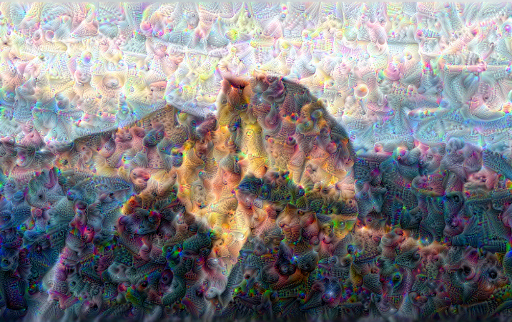
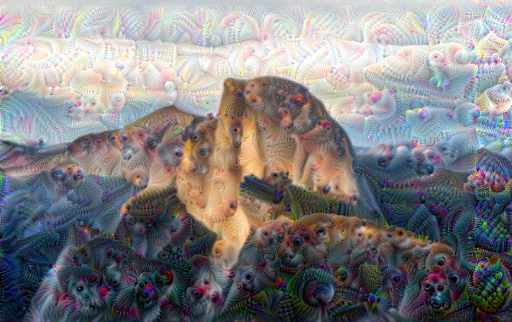
Implement image tiles
- Break input images into tiles and pass each tile to the DeepDream model
  separately in each step. Improves performance for larger images ad/or larger
  numbers of octaves.

diff --git a/dreamer/dreamer/deepdream.py b/dreamer/dreamer/deepdream.py
@@ -8,7 +8,7 @@ from PIL import Image
 import numpy as np
 import tensorflow as tf
 
-IMG_JITTER = 32
+IMG_JITTER = 128
 VALID_OUTPUT_LAYERS = frozenset(f"mixed{i}" for i in range(11))
 
 
@@ -48,23 +48,37 @@ class DeepDream(tf.Module):
             tf.TensorSpec(shape=[None, None, 3], dtype=tf.float32),
             tf.TensorSpec(shape=[], dtype=tf.int32),
             tf.TensorSpec(shape=[], dtype=tf.float32),
+            tf.TensorSpec(shape=[], dtype=tf.int32),
         )
     )
-    def __call__(self, img, steps, step_size) -> tf.Tensor:
+    def __call__(self, img, steps, step_size, tile_size) -> tf.Tensor:
+        img_shape = tf.shape(img)
+        width = img_shape[0]
+        height = img_shape[1]
+        tile_xs = tf.range(0, width, tile_size)
+        tile_ys = tf.range(0, height, tile_size)
+
         for _ in range(steps):
+            gradients = tf.zeros_like(img)
+
             # Shift/offset image by random jitter
             x_shift, y_shift = np.random.randint(-IMG_JITTER, IMG_JITTER + 1, 2)
             img = tf.roll(tf.roll(img, x_shift, axis=1), y_shift, axis=0)
 
-            loss = tf.constant(0.0)
-            with tf.GradientTape() as tape:
-                tape.watch(img)
-                loss = activation_loss(img, self.model)
+            # Iterate over all image tiles for each step
+            for x in tile_xs:
+                for y in tile_ys:
+                    with tf.GradientTape() as tape:
+                        tape.watch(img)
+                        img_tile = img[
+                            x : tf.math.minimum(width, x + tile_size),
+                            y : tf.math.minimum(height, y + tile_size),
+                        ]
+                        loss = activation_loss(img_tile, self.model)
+                    gradients += tape.gradient(loss, img)
 
-            gradients = tape.gradient(loss, img)
             # Normalize gradient steps
             gradients /= tf.math.reduce_std(gradients) + 1e-8
-
             img = img + gradients * step_size
             img = tf.clip_by_value(img, -1, 1)
 
@@ -104,17 +118,17 @@ def deprocess_image(img: tf.Tensor) -> Image:
 
 
 def dream(
-    image_filepath: str,
+    input_img: Image,
     output_layers: List[str],
     octaves: int,
     octave_scale: float,
     steps: int,
     step_size: float,
+    tile_size: int,
 ) -> Image:
     model = get_deep_dream_model(output_layers)
     dreamer = DeepDream(model)
 
-    input_img = get_image(image_filepath)
     img = preprocess_image(input_img)
     img_shape = tf.shape(img)[:-1]
     img_shape_float = tf.cast(img_shape, tf.float32)
@@ -122,7 +136,9 @@ def dream(
     for i in octave_range:
         octave_shape = tf.cast(img_shape_float * (octave_scale ** i), tf.int32)
         img = tf.image.resize(img, octave_shape).numpy()
-        img = dreamer(img, tf.constant(steps), tf.constant(step_size))
+        img = dreamer(
+            img, tf.constant(steps), tf.constant(step_size), tf.constant(tile_size)
+        )
 
     # Resize to original preprocessed image shape
     img = tf.image.resize(img, img_shape)
@@ -181,13 +197,21 @@ if __name__ == "__main__":
         default=["mixed3", "mixed5"],
         help="The names of layers in the InceptionV3 model to use as output layers.",
     )
+    parser.add_argument(
+        "--tile-size",
+        type=int,
+        default=256,
+        help="Size of image tiles, in pixels. Each image will be broken into tiles and each tile passed to the model separately.",
+    )
     args = parser.parse_args()
+    input_img = get_image(args.image_filepath)
     output_img = dream(
-        args.image_filepath,
+        input_img,
         args.output_layers,
         args.octaves,
         args.octave_scale,
         args.steps,
         args.step_size,
+        args.tile_size,
     )
     output_img.save(args.output_filepath)

diff --git a/dreamer/README.md b/dreamer/README.md
@@ -38,6 +38,9 @@ I followed the [TensorFlow DeepDream tutorial](https://www.tensorflow.org/tutori
                             Value to scale each step change by during image generation.
       --output-layers OUTPUT_LAYERS [OUTPUT_LAYERS ...]
                             The names of layers in the InceptionV3 model to use as output layers.
+      --tile-size TILE_SIZE
+                            Size of image tiles, in pixels. Each image will be broken into tiles and each tile passed to the model
+                            separately.
     
 ### Octaves
 Applying gradient ascent to the input image at different scales or 'octaves' allows DeepDream to generate images that feature patterns at different levels of granularity. The TensorFlow tutorial explains octaves with the following:
